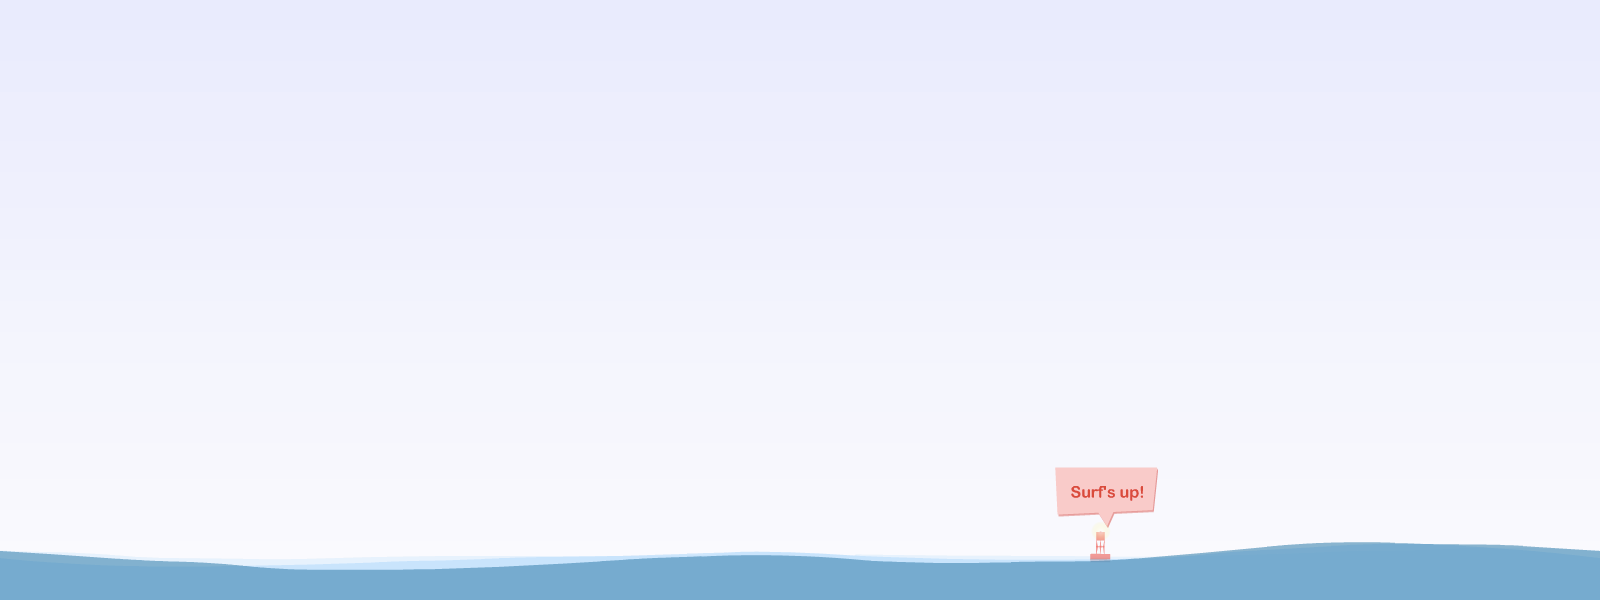
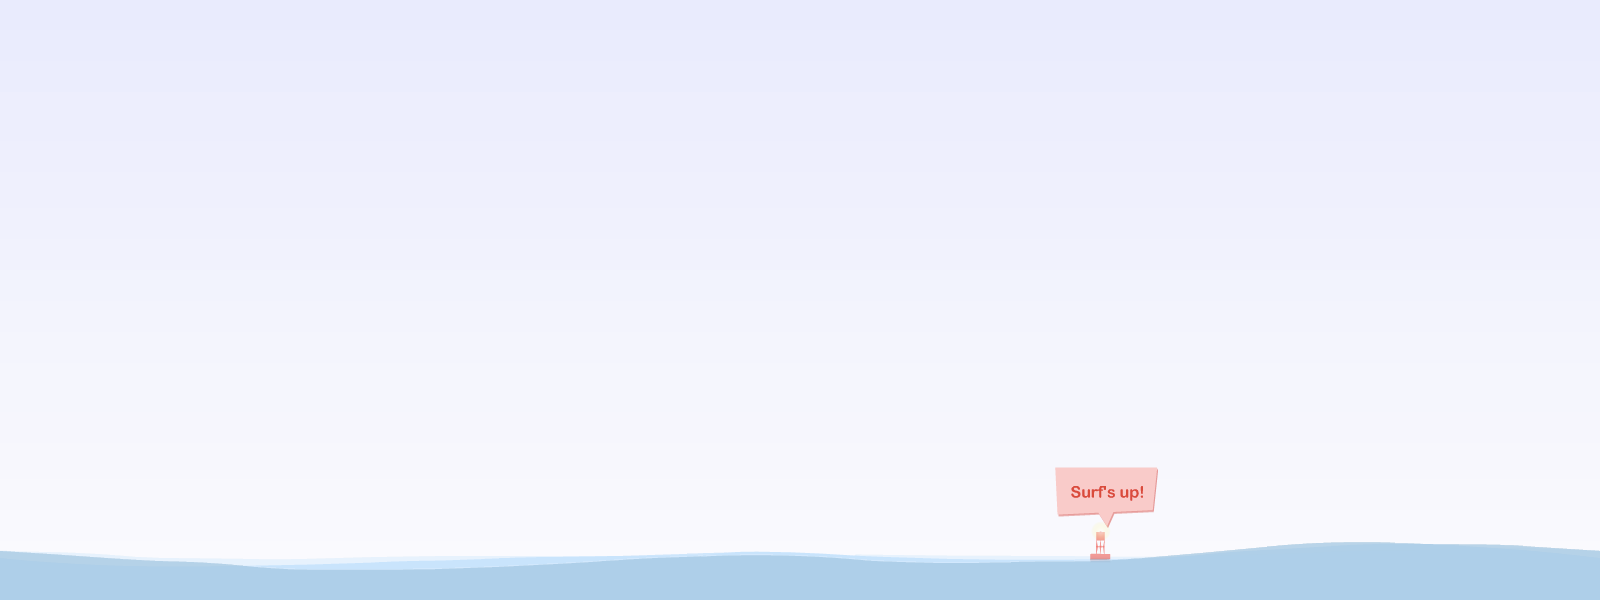
Reworked Waterwall colors. Added &SHY; char code. Solidifying <figure> CSS.

Changed region(s): [[0.0, 0.9, 1.0, 1.0]]

diff --git a/public/assets/css/master.css b/public/assets/css/master.css
@@ -4,7 +4,7 @@ html {
 	
 body {
 	font-size: 62.5%;
-	line-height: 1.5;
+	line-height: 1.6;
 	font-family: Georgia, serif;
 	border-top: 1px solid; }
 
@@ -51,8 +51,8 @@ span.amp {
 hgroup {
 	display: block; }
 
-hgroup aside {
-	margin: 0 4em 0 -320px;
+article aside {
+	margin: 0 4em 4em -320px;
 	float: left;
 	text-align: right;
 	display: block;
@@ -78,15 +78,30 @@ article dd {
 
 figure {
 	clear: both;
-	margin: 0 2em 3em -320px;
 	margin: 0 0 3em;
+	left: -1px;
+	position: relative;
 	float: left;
 	display: block;
-	padding: 5px; }
+	padding: 1px;
+	border-radius: 0 0 5px 5px; }
+
+figure img {
+	position: relative;
+	margin: -1px 0 0 -1px;
+	border: 1px solid transparent; }
+	
+figure a:hover img {
+	background-color: none;
+	border: 1px solid; }
+
+figure.aside {
+	margin: 0 4em 4em -320px;
+	width: 280px; }
 
 figure p {
 	font-size: 1.4em;
-	margin: .5em;
+	margin: .5em 1.2em;
 	text-indent: 0; }
 
 .figure-group {

diff --git a/public/assets/css/colors.css b/public/assets/css/colors.css
@@ -5,7 +5,7 @@ html {
 body {
 	border-color: rgba(0%, 20%, 40%, .9); }
 
-header hgroup section, article, hgroup aside,
+header hgroup section, article, article aside,
 footer section, footer aside, .figure-group {
 	border-color: rgba(0, 0, 0, .1); }
 	
@@ -20,6 +20,15 @@ a:hover {
 
 a:hover, a:active {
 	background-color: rgba(0%, 40%, 80%, .1); }
+
+figure a:visited {
+	color: rgba(0%, 40%, 80%, .7); }
+
+figure a:hover {
+	color: rgba(0%, 40%, 80%, 1); }
+
+figure a:hover img {
+	border-color: rgba(0%, 40%, 80%, .9); }
 
 abbr {
 	border-color: rgba(0, 0, 0, .8); }

diff --git a/public/assets/css/slug/waterwall.css b/public/assets/css/slug/waterwall.css
@@ -3,13 +3,12 @@ html {
 	border-color: rgba(218, 75, 59, .8); }
 	
 body {
+	text-shadow: rgba(100%, 100%, 100%, .8) 0 1px 0;
 	border-color: rgba(218, 75, 59, .9);
-	background: rgb(118, 171, 207) url(/assets/i/waterwall-bg.png) repeat-x 50% -160px; }
+	background: rgb(174, 207, 233) url(/assets/i/waterwall-bg.png) repeat-x 50% -160px; }
 
-header { }
-
-article h2, aside h2, h3, dt, dd, p, li, cite {
-	color: rgba(100%, 100%, 100%, .9); }
+figure {
+	text-shadow: none; }
 
 a:link {
 	color: rgba(218, 75, 59, .9); }

diff --git a/public/assets/css/typekit.css b/public/assets/css/typekit.css
@@ -1,6 +1,5 @@
 
 body, header h1 {
-	line-height: 1.6;
 	font-family: "droid-serif-1","droid-serif-2", Georgia, serif; }
 
 header h1 {
